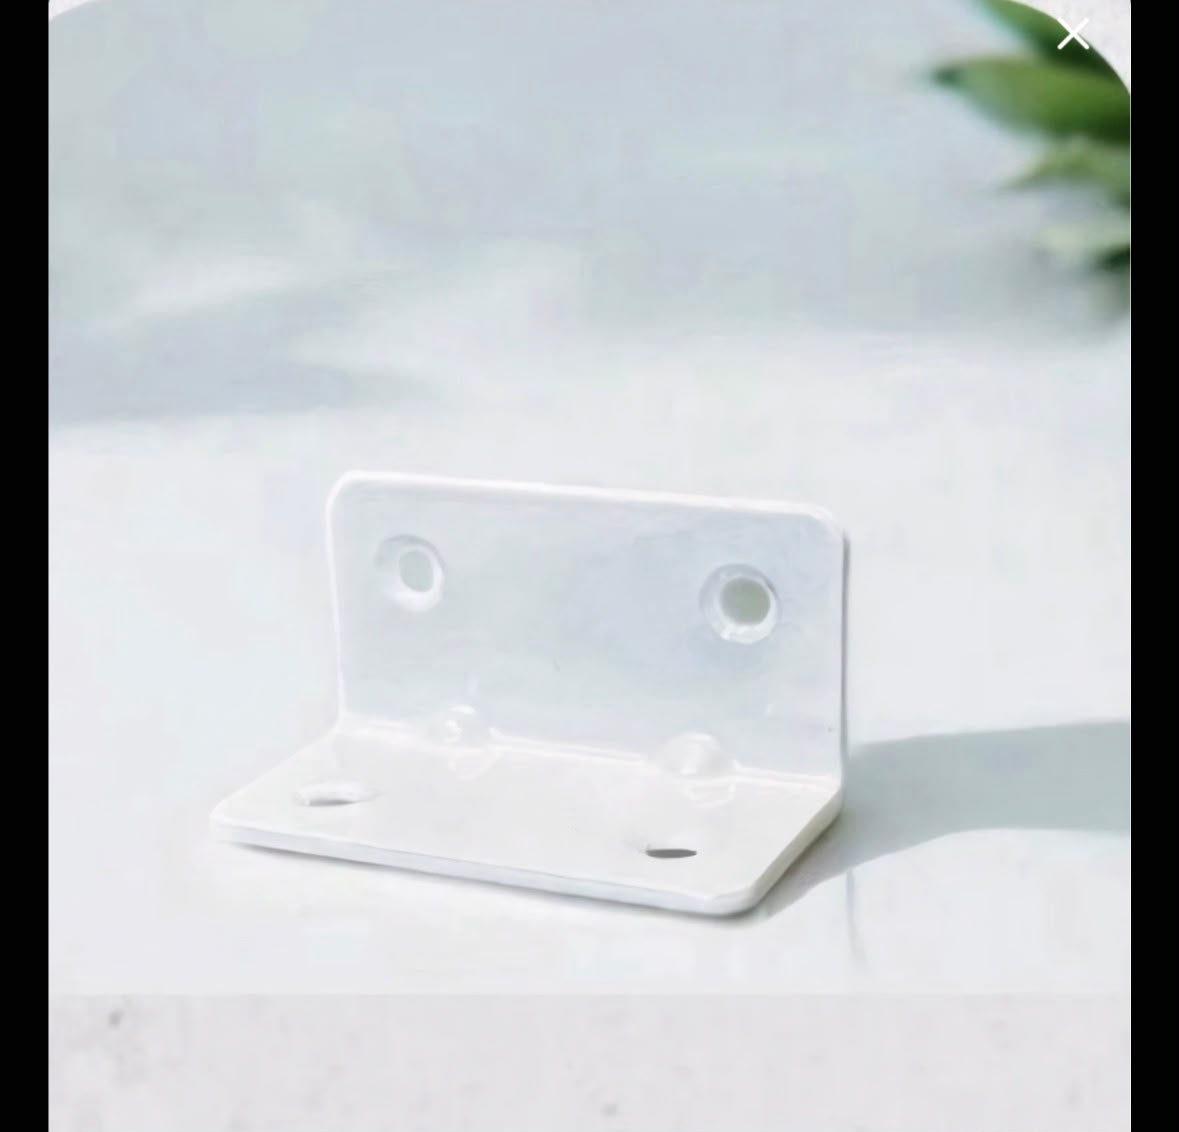
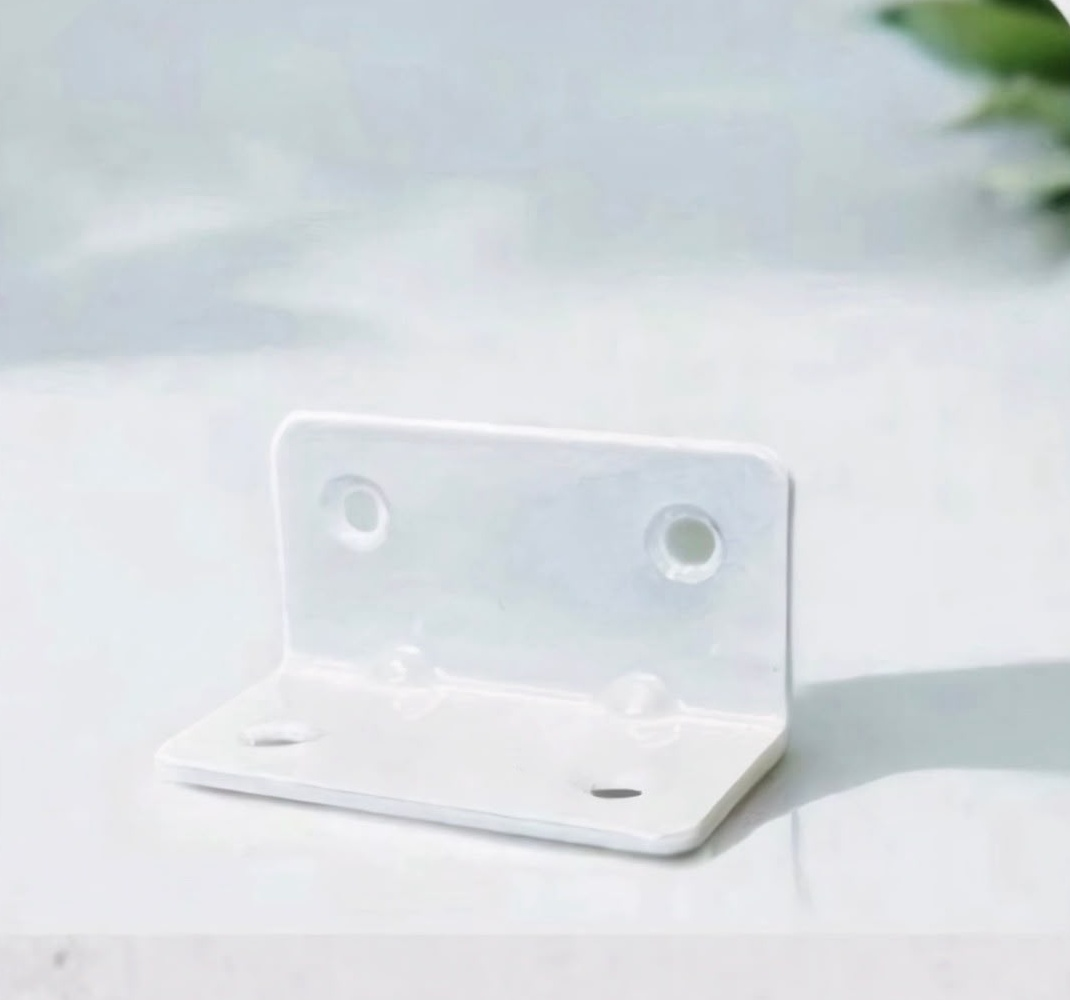
feat: add 9th bed clamp with studio photo and clean all watermark/text overlays from product images

diff --git a/src/data/products.ts b/src/data/products.ts
@@ -24,7 +24,7 @@ export const categories: Exclude<Category, "All">[] = [
 
 export const categoryImages: Record<Exclude<Category, "All">, string> = {
   Lockpatti: "/products/lockpatti/hero-product-clean.jpg",
-  Hinges: "/products/hinges/hinges-4.jpg",
+  Hinges: "/products/hinges/hinges-1.jpg",
   "Bed Clamp": "/products/bed-clamp/bed-clamp-1.jpg",
   "Bed Socket": "/products/bed-soket/bed-soket-1.jpg",
   "L Corner": "/products/l-corner/l-corner-1.jpg",
@@ -182,7 +182,7 @@ export const products: ProductItem[] = [
       "/products/lockpatti/real-lockpatti-4.png",
       "/products/lockpatti/lockpatti-5.jpg",
     ],
-    badge: "Commercial Pair",
+    badge: "Commercial Flange",
   },
   {
     id: "lp-06",
@@ -616,15 +616,15 @@ export const products: ProductItem[] = [
     categoryName: "Bed Clamp Series",
     note: "Bridge-profile hat channel bracket with dual mounting ears and center bolt hole for central bed support beams.",
     description:
-      "Specialized hat-channel bridge bracket engineered to cradle and rigidly lock central longitudinal bed frame beams.",
-    descriptionGu: "બેડના વચ્ચેના પાટિયાને ટેકો આપવા માટે હેટ-ચેનલ બ્રિજ ક્લેમ્પ બ્રેકેટ.",
+      "Specialized hat-channel bridge bracket engineered to cradle and rigidly lock central longitudinal bed frame beams with quad screw anchor points and center hex fastener.",
+    descriptionGu: "બેડના વચ્ચેના સેન્ટર પાટિયાને ટેકો આપી ચુસ્ત પકડવા માટે પ્રીમિયમ હેટ-ચેનલ બ્રિજ ક્લેમ્પ બ્રેકેટ.",
     material: "Cold-Rolled Carbon Steel",
     finish: "Silver Zinc Electroplated",
     thickness: "2.8 mm Formed Steel",
     loadCapacity: "350 kg Center Beam Support",
     dimensions: "160mm x 45mm x 28mm",
     features: [
-      "Raised bridge profile for beam support",
+      "Raised bridge profile for center beam support",
       "Quad perimeter mounting holes",
       "Central alignment bolt hole",
       "Heavy stamp formed rigidity",
@@ -633,6 +633,7 @@ export const products: ProductItem[] = [
     images: [
       "/products/bed-clamp/bed-clamp-9.jpg",
       "/products/bed-clamp/bed-clamp-8.jpg",
+      "/products/bed-clamp/bed-clamp-1.jpg",
     ],
     badge: "Center Bridge",
   },

diff --git a/src/pages/ProductDetail.tsx b/src/pages/ProductDetail.tsx
@@ -199,8 +199,18 @@ export default function ProductDetail({ category }: { category: string }) {
       <section className="related">
         <Eyebrow>RELATED HARDWARE IN RANGE</Eyebrow>
         <div>
-          {products
-            .filter((p) => p.id !== currentProduct.id)
+          {[
+            ...products.filter(
+              (p) =>
+                p.id !== currentProduct.id &&
+                p.category === currentProduct.category,
+            ),
+            ...products.filter(
+              (p) =>
+                p.id !== currentProduct.id &&
+                p.category !== currentProduct.category,
+            ),
+          ]
             .slice(0, 3)
             .map((p) => (
               <button
